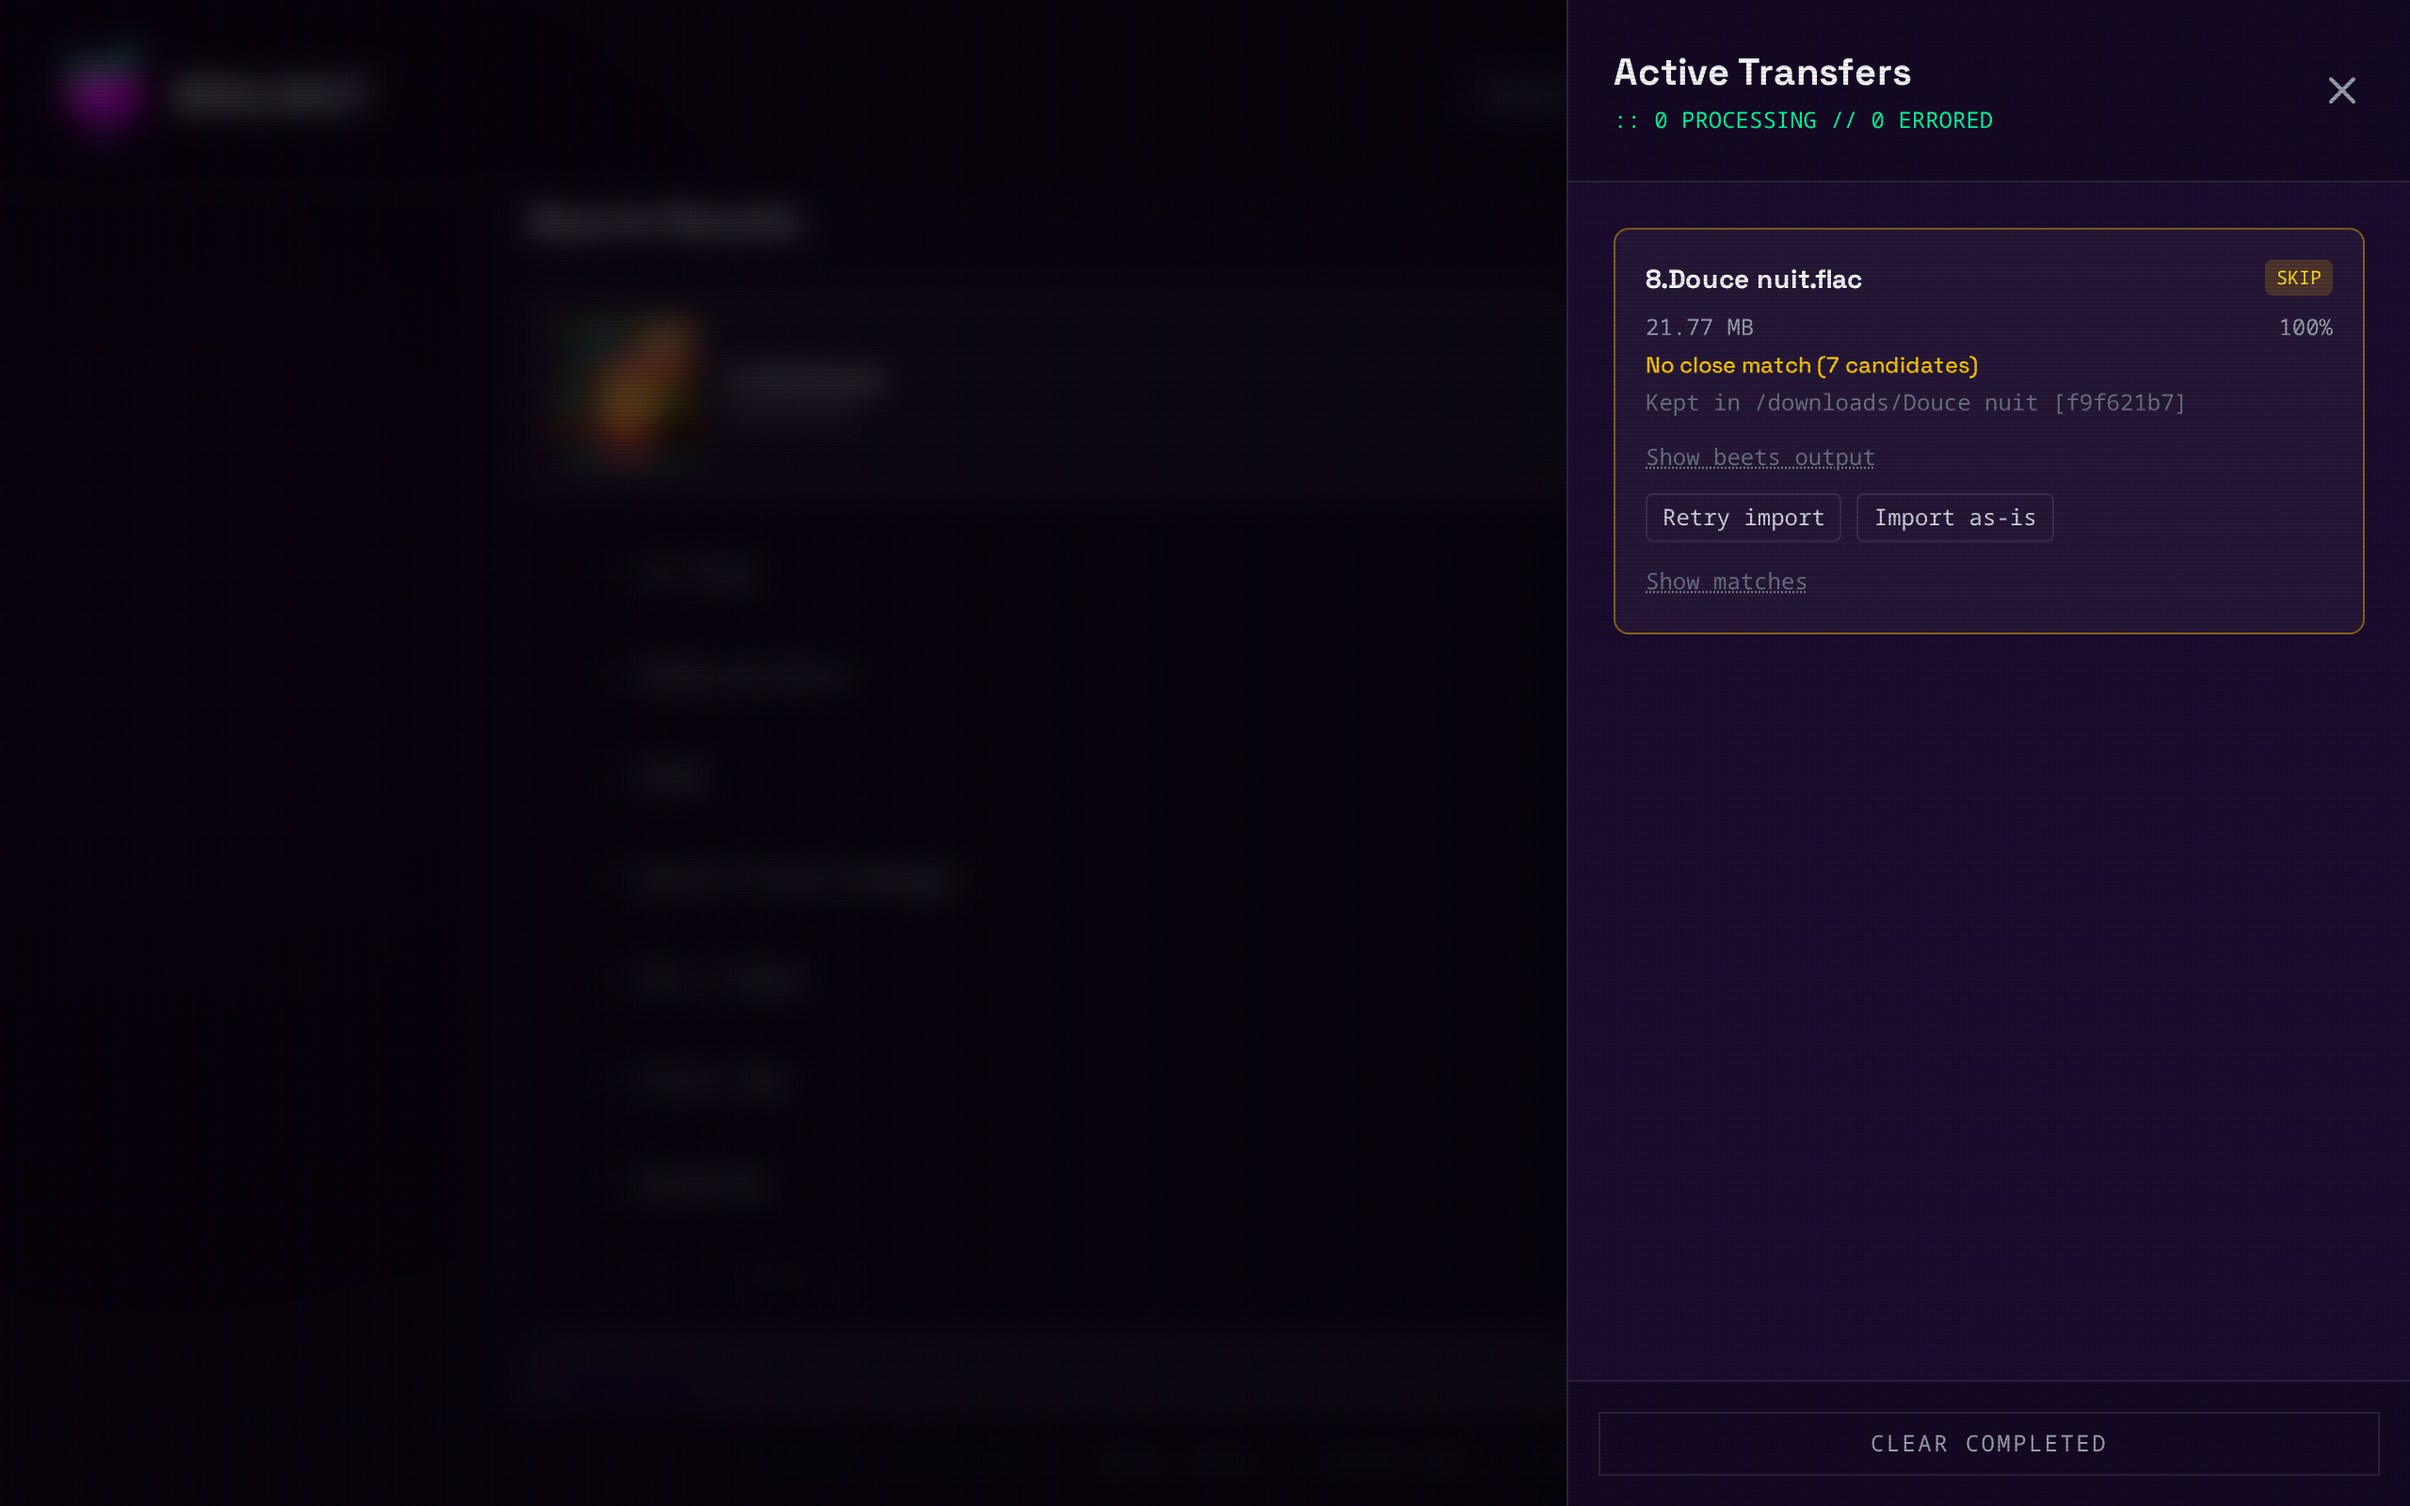
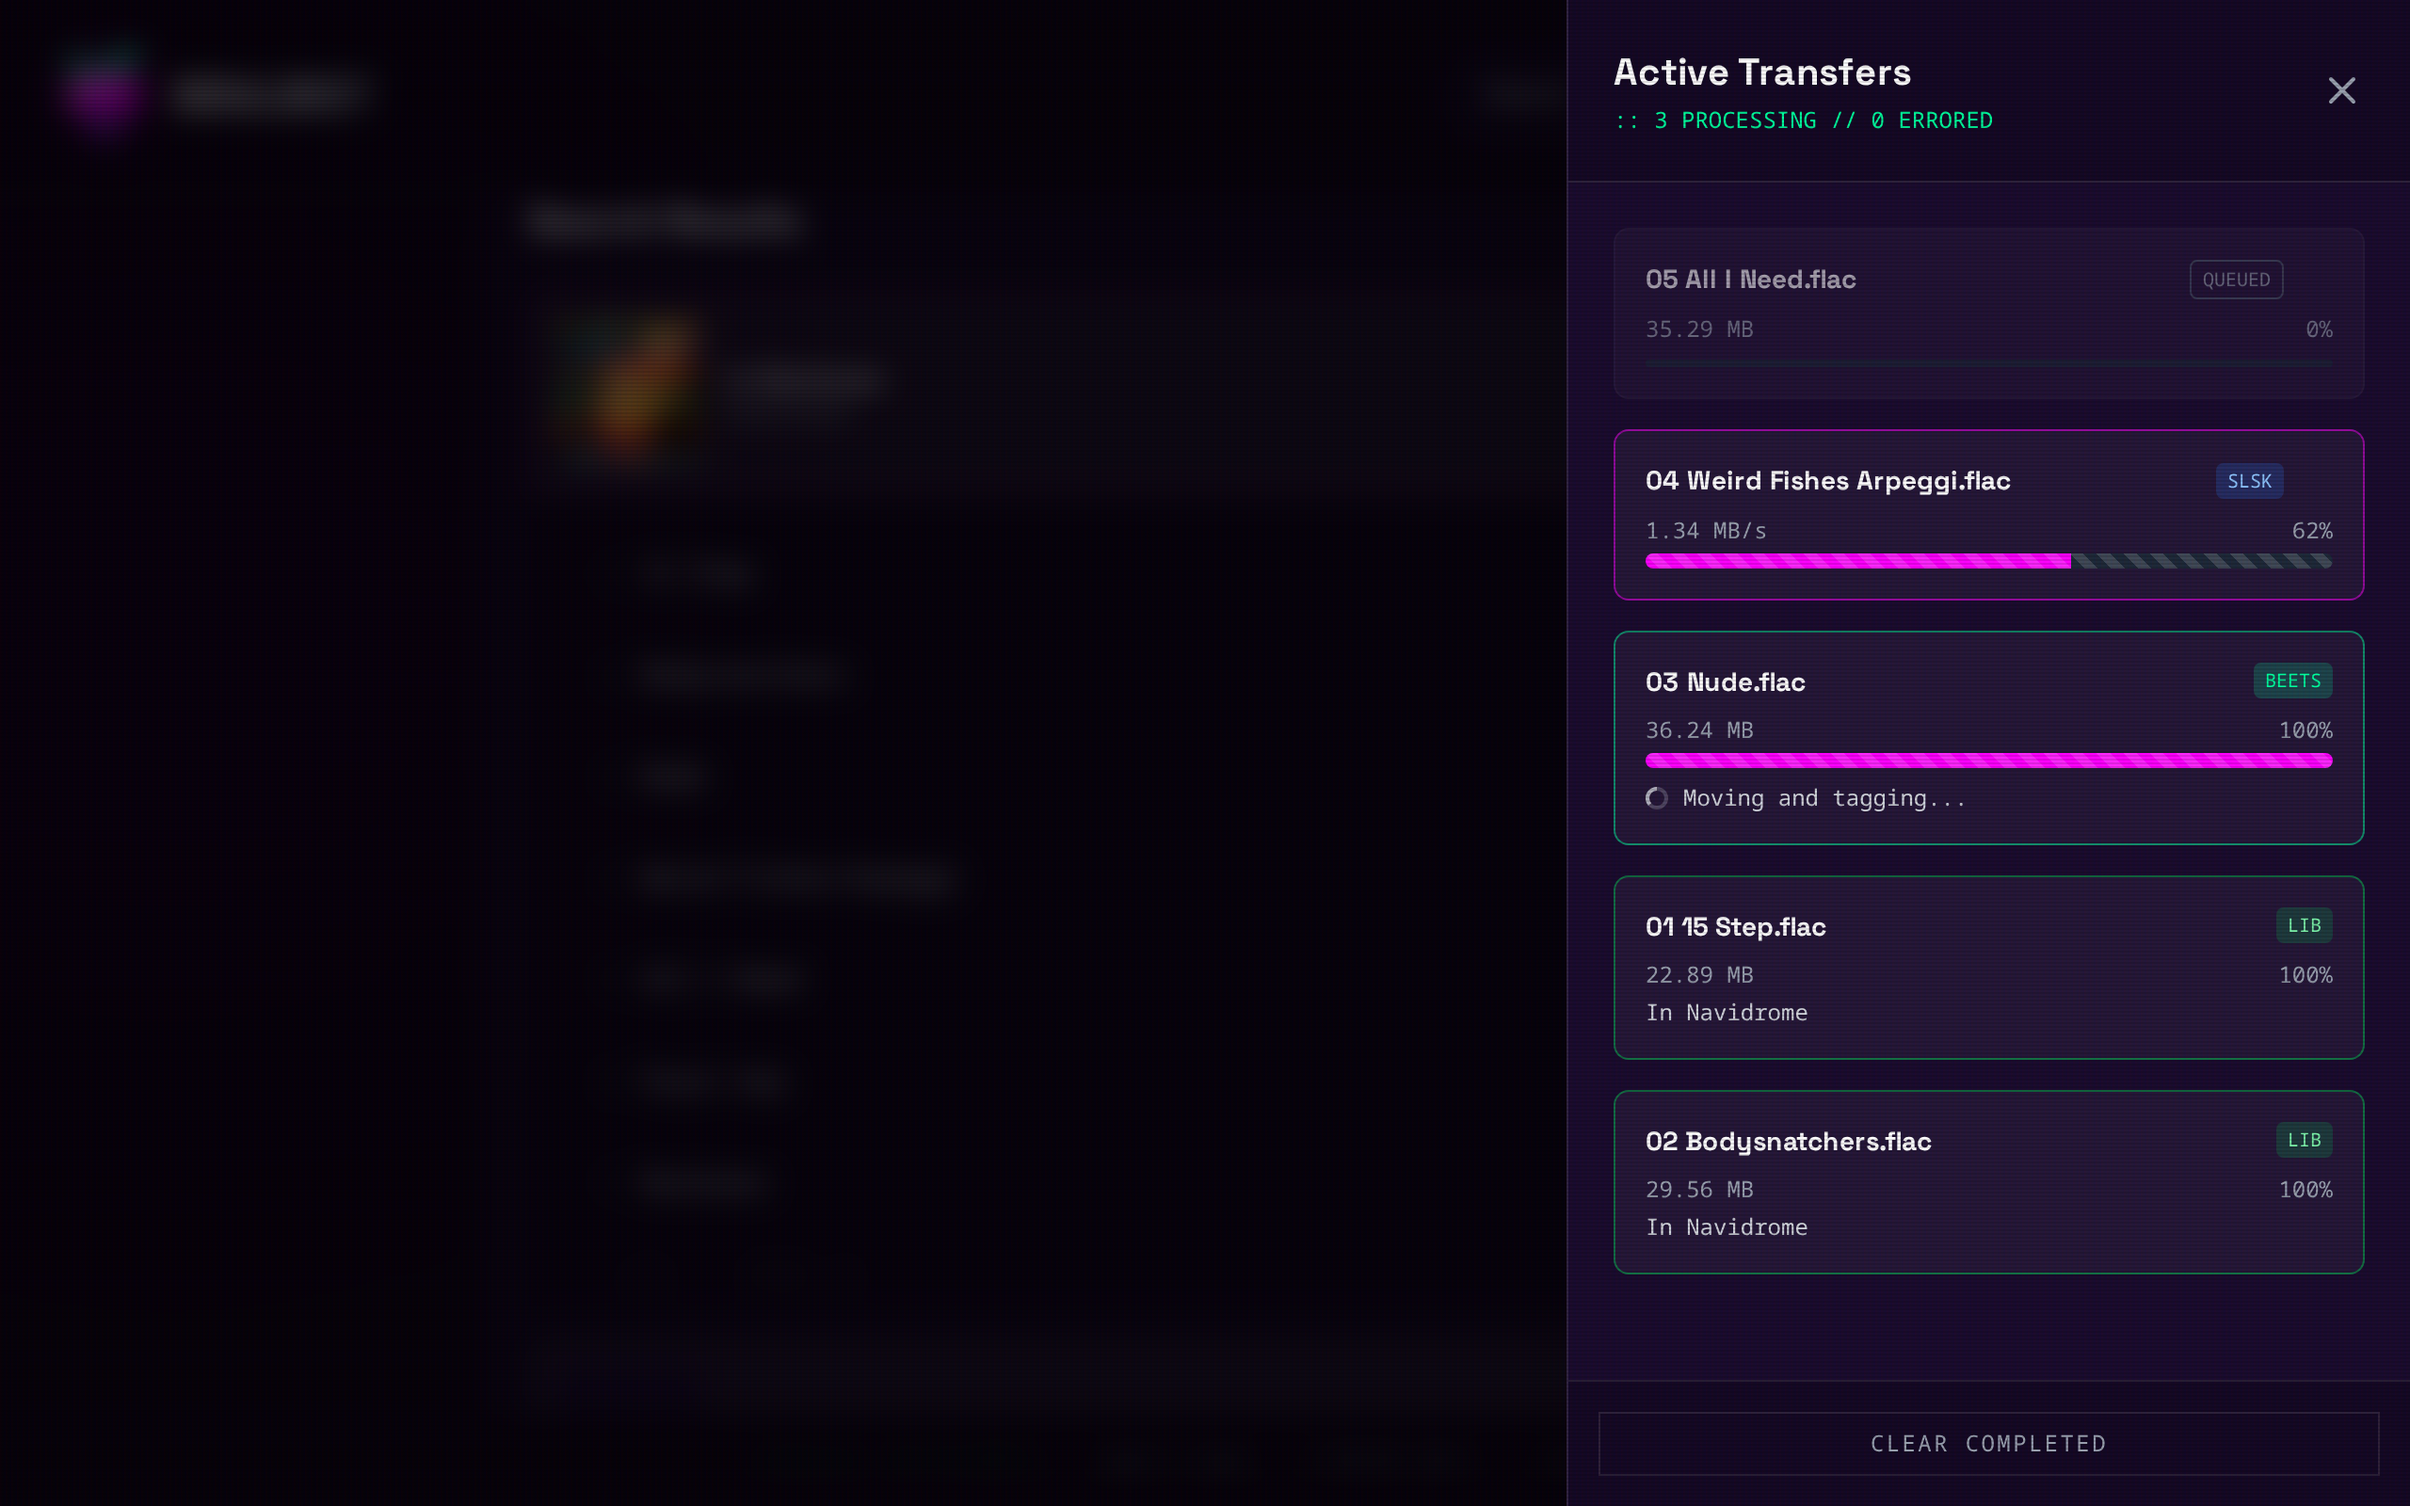
Show an album on its way into the library in the downloads screenshot

diff --git a/e2e/screenshots/transfers.ts b/e2e/screenshots/transfers.ts
@@ -1,0 +1,52 @@
+// The downloads panel shows what the browser hears on its updates socket. For
+// its picture the socket is answered here with an album part way through, so
+// the instance downloads nothing and the picture does not depend on what the
+// account happens to have in its panel that day.
+
+import type { Page, WebSocketRoute } from '@playwright/test';
+
+/** Each step a file goes through, in the order the panel lists an album that is half done. */
+const STEPS = [
+  { state: 'Imported', percent: 100, index: 'listed' },
+  { state: 'Imported', percent: 100, index: 'listed' },
+  { state: 'Importing', percent: 100 },
+  { state: 'InProgress', percent: 62 },
+  { state: 'Queued', percent: 0 },
+] as const;
+
+/**
+ * Answers the page's updates socket instead of the instance. Call before the
+ * page loads; the returned function then shows `titles`, the first tracks of
+ * `album`, as files on their way into the library.
+ */
+export async function holdTransfers(page: Page): Promise<(artist: string, album: string, titles: string[]) => void> {
+  const sockets: WebSocketRoute[] = [];
+  await page.routeWebSocket(/\/api\/downloads\/updates/, (socket) => {
+    sockets.push(socket);
+  });
+  return (artist, album, titles) => {
+    const rows = STEPS.slice(0, titles.length).map((step, i) => {
+      const size = (24 + ((i * 7) % 15)) * 1_000_000;
+      return {
+        id: `shot-${i}`,
+        source: 'peer',
+        item: `${artist}\\${album}\\${String(i + 1).padStart(2, '0')} ${titles[i].replace(/[\\/]/g, ' ')}.flac`,
+        size,
+        transferred: Math.round((size * step.percent) / 100),
+        state: step.state,
+        percent: step.percent,
+        speed: step.state === 'InProgress' ? 1_400_000 : 0,
+        error: null,
+        backend: 'slskd',
+        batch_id: 'shot',
+        batch_label: album,
+        index: 'index' in step ? step.index : null,
+      };
+    });
+    // The app sends its events as JSON in binary frames.
+    const frame = Buffer.from(JSON.stringify({ Progress: rows }));
+    for (const socket of sockets) {
+      socket.send(frame);
+    }
+  };
+}

diff --git a/e2e/screenshots/desktop.shots.ts b/e2e/screenshots/desktop.shots.ts
@@ -4,8 +4,10 @@
 import { expect, test } from '@playwright/test';
 import { openDownloadsPanel, openSettings } from '../helpers/app.js';
 import { save, searchAsUser } from './save.js';
+import { holdTransfers } from './transfers.js';
 
 test('search, album, downloads, dashboard and settings', async ({ page }) => {
+  const showTransfers = await holdTransfers(page);
   await searchAsUser(page);
   await save(page, 'search');
 
@@ -17,7 +19,10 @@ test('search, album, downloads, dashboard and settings', async ({ page }) => {
   await page.getByRole('heading', { name: 'Search Results' }).evaluate((heading) => heading.scrollIntoView({ block: 'start' }));
   await save(page, 'album');
 
+  const [title, artist] = await album.getByRole('paragraph').allTextContents();
+  showTransfers(artist, title, await album.locator('span.flex-grow').allTextContents());
   await openDownloadsPanel(page);
+  await expect(page.getByText('LIB', { exact: true }).first()).toBeVisible();
   await save(page, 'downloads');
   await page.getByRole('button', { name: 'Close downloads' }).click();
 

diff --git a/README.md b/README.md
@@ -350,7 +350,7 @@ When enabled (Settings > Library > Auto-delete), 1-star tracks are deleted from 
 
 ### Refreshing the screenshots
 
-The pictures in [screenshots](./screenshots) are taken on a running Soulbeet, so they show a real library. Nothing is downloaded or changed there.
+The pictures in [screenshots](./screenshots) are taken on a running Soulbeet, so they show a real library. Nothing is downloaded or changed there: the downloads panel is staged, it shows the album you searched for part way through without fetching it.
 
 ```bash
 cd e2e && npm ci && npx playwright install chromium
